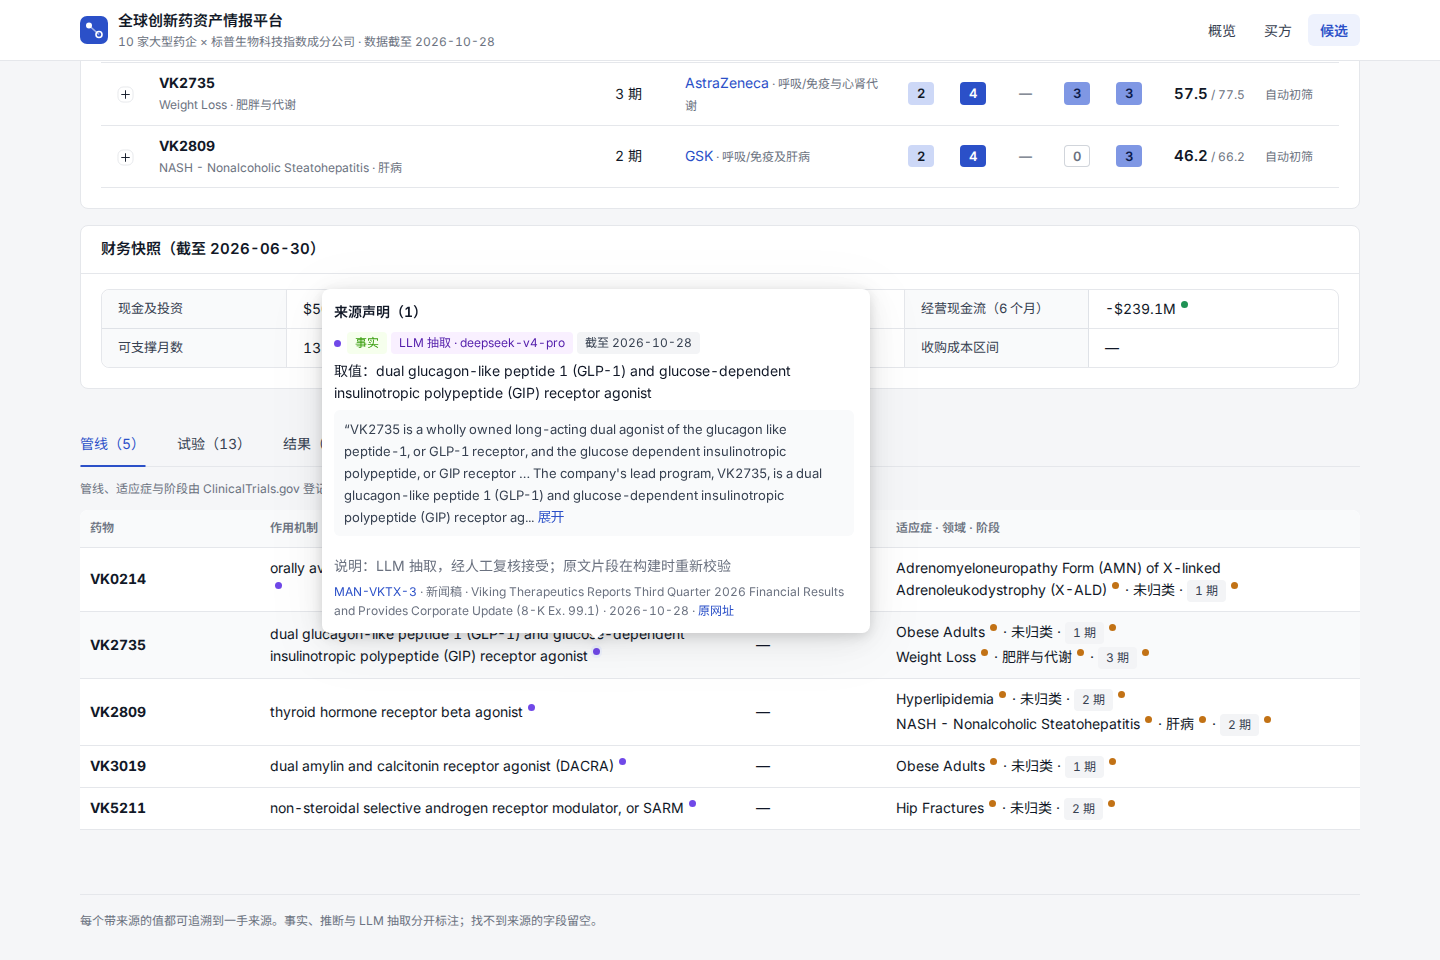
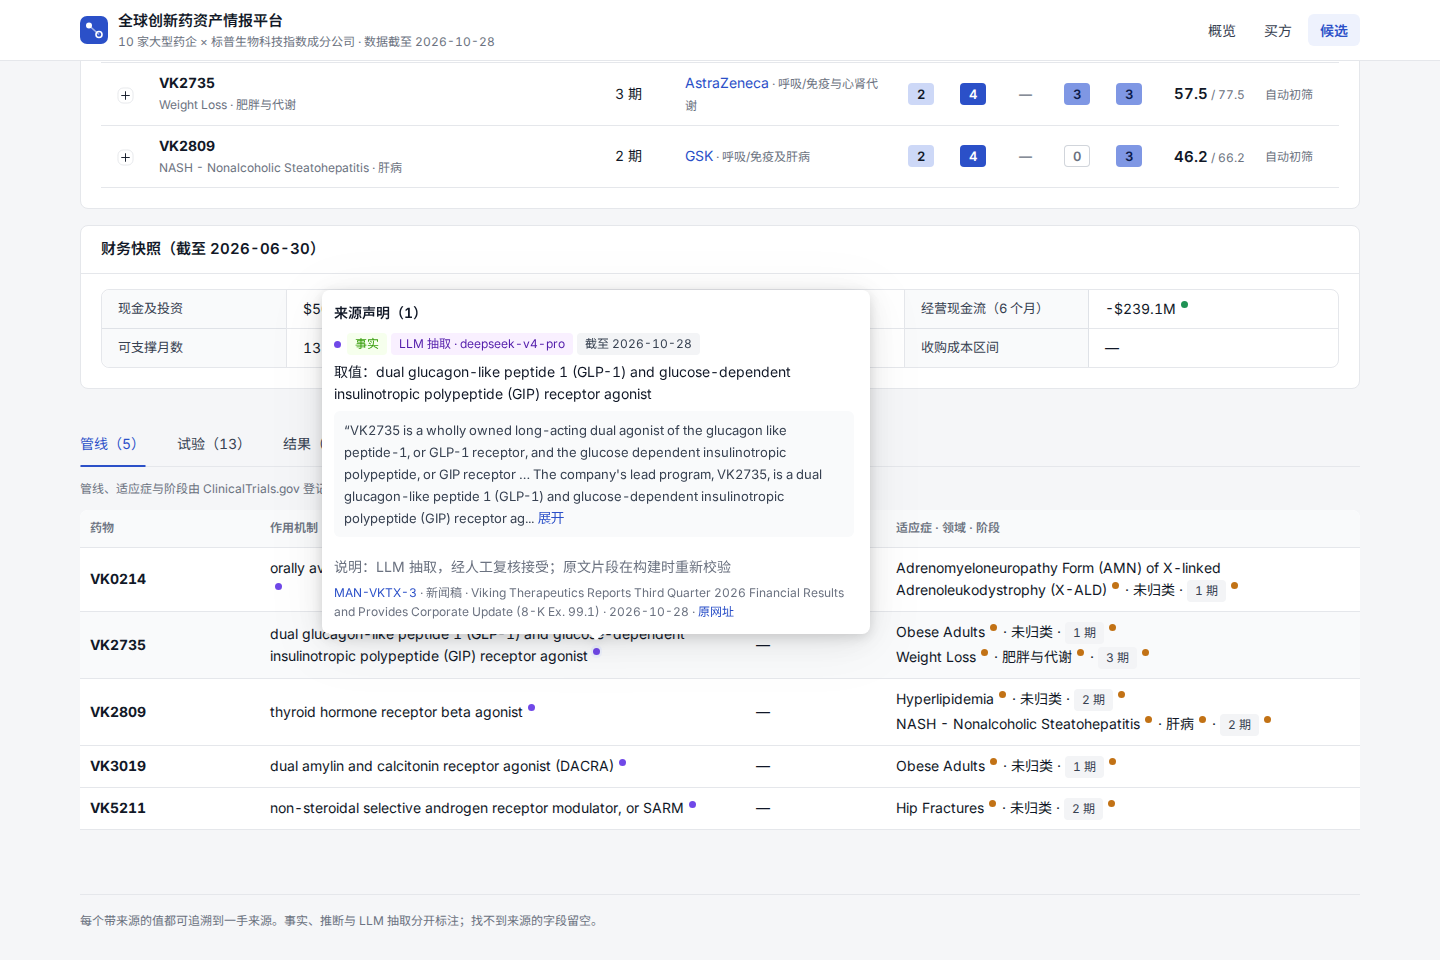
web: show 推荐逻辑 as labelled parts following the scoring-rules template
Claude-Session: https://claude.ai/code/session_01HkPvGRTAerm7dKeWUgGh96

Changed region(s): [[0.2188, 0.3125, 0.5938, 0.6562], [0.8125, 0.1562, 0.875, 0.1875]]

diff --git a/web/src/components/Thesis.tsx b/web/src/components/Thesis.tsx
@@ -1,0 +1,87 @@
+import { Button } from 'antd'
+import { type ReactNode, useState } from 'react'
+import type { Sources } from '../api/client'
+import { parseThesis, splitCategory } from '../lib/thesis'
+import { RichText } from './RichText'
+import { Sourced } from './Sourced'
+
+// Bold the lead phrase (before `sep`) of an exact substring, keeping the rest as typeset text.
+function Lead({ text, sep }: { text: string; sep: string }) {
+  const at = text.indexOf(sep)
+  if (at <= 0) return <RichText text={text} />
+  return (
+    <div className="rich">
+      <p>
+        <b>{text.slice(0, at)}</b>
+        {text.slice(at)}
+      </p>
+    </div>
+  )
+}
+
+function Row({ tag, tone, children }: { tag: string; tone: string; children: ReactNode }) {
+  return (
+    <div className="brief-row">
+      <span className={`brief-tag tone-${tone}`}>{tag}</span>
+      <div style={{ minWidth: 0 }}>{children}</div>
+    </div>
+  )
+}
+
+// 推荐逻辑 split into its template parts (need → asset → reason; evidence, next event, obstacle).
+// Text that does not follow the template is shown whole.
+export function Thesis({ text, sources }: { text: string; sources: Sources }) {
+  const [whole, setWhole] = useState(false)
+  const parts = parseThesis(text)
+  const head = (
+    <div className="brief-head">
+      <Sourced sources={sources} field="thesis">
+        <b style={{ fontSize: 15 }}>推荐逻辑</b>
+      </Sourced>
+      <span className="sub">买方需求与资产的对应；证据、下一事件与主要障碍</span>
+      {parts && (
+        <Button type="link" size="small" onClick={() => setWhole(!whole)} style={{ marginLeft: 'auto', paddingInline: 0 }}>
+          {whole ? '分项显示' : '显示原文整段'}
+        </Button>
+      )}
+    </div>
+  )
+  if (!parts || whole)
+    return (
+      <div className="brief">
+        {head}
+        <p className="thesis">{text}</p>
+      </div>
+    )
+  const [category, obstacle] = parts.obstacle ? splitCategory(parts.obstacle) : [null, '']
+  return (
+    <div className="brief">
+      {head}
+      <div className="brief-group">
+        <div className="brief-title">为什么匹配</div>
+        <Row tag="买方需求" tone="buyer"><Lead text={parts.need} sep="需要" /></Row>
+        <Row tag="对应资产" tone="asset"><Lead text={parts.asset} sep="（" /></Row>
+        <Row tag="匹配理由" tone="reason"><RichText text={parts.reason} /></Row>
+      </div>
+      <div className="brief-group">
+        <div className="brief-title">证据与风险</div>
+        <Row tag="关键证据" tone="evidence"><RichText text={parts.evidence} /></Row>
+        {parts.next && <Row tag="下一事件" tone="next"><RichText text={parts.next} /></Row>}
+        {parts.obstacle && (
+          <Row tag="主要障碍" tone="risk">
+            {category ? (
+              <div className="rich">
+                <p>
+                  <span className="risk-cat">{category}</span>
+                  {obstacle}
+                </p>
+              </div>
+            ) : (
+              <RichText text={parts.obstacle} />
+            )}
+          </Row>
+        )}
+      </div>
+    </div>
+  )
+}

diff --git a/web/src/lib/thesis.ts b/web/src/lib/thesis.ts
@@ -1,0 +1,65 @@
+// Splits a 推荐逻辑 written to the template in docs/scoring-rules.md §7 into its labelled parts:
+//   〈买方〉需要〈需求〉；〈公司〉的〈资产〉…对应这一需求，因为〈理由〉。
+//   证据是〈…〉；下一事件是〈…〉；主要障碍是〈…〉。
+// Every part is an exact substring of the original; when the text does not follow the template the
+// caller shows it unsplit, so nothing is ever dropped or reworded.
+
+export interface ThesisParts {
+  need: string
+  asset: string
+  reason: string
+  evidence: string
+  next: string | null
+  obstacle: string | null
+}
+
+const OPEN = '（(「“"'
+const CLOSE = '）)」”"'
+
+// Index of the first `ch` outside brackets and quotes at or after `from`, or -1.
+function topLevel(text: string, ch: string, from = 0): number {
+  let depth = 0
+  let inAscii = false
+  for (let i = from; i < text.length; i++) {
+    const c = text[i]
+    if (c === '"') inAscii = !inAscii
+    else if (!inAscii && OPEN.includes(c)) depth++
+    else if (!inAscii && CLOSE.includes(c)) depth = Math.max(0, depth - 1)
+    else if (depth === 0 && !inAscii && text.startsWith(ch, i)) return i
+  }
+  return -1
+}
+
+export function parseThesis(text: string): ThesisParts | null {
+  const at = text.indexOf('对应这一需求')
+  if (at < 0) return null
+  const head = text.slice(0, at)
+  const semi = topLevel(head, '；')
+  if (semi < 0) return null
+  // Usually 「对应这一需求，因为…」; a qualified match such as 「对应这一需求中的「泌尿」肿瘤，因为…」 keeps its qualifier.
+  const because = topLevel(text, '因为', at)
+  if (because < 0) return null
+  const plain = text.slice(at, because) === '对应这一需求，'
+  const reasonFrom = plain ? because + 2 : at
+  const end = topLevel(text, '。', because)
+  if (end < 0) return null
+  const rest = text.slice(end + 1)
+  const nextAt = topLevel(rest, '；下一事件是')
+  const obstacleAt = topLevel(rest, '；主要障碍是')
+  const evidenceEnd = nextAt >= 0 ? nextAt : obstacleAt >= 0 ? obstacleAt : rest.length
+  const parts: ThesisParts = {
+    need: head.slice(0, semi),
+    asset: head.slice(semi + 1),
+    reason: text.slice(reasonFrom, end + 1),
+    evidence: rest.slice(0, evidenceEnd).replace(/^证据是/, ''),
+    next: nextAt >= 0 ? rest.slice(nextAt + '；下一事件是'.length, obstacleAt > nextAt ? obstacleAt : undefined) : null,
+    obstacle: obstacleAt >= 0 ? rest.slice(obstacleAt + '；主要障碍是'.length) : null,
+  }
+  return parts.evidence.trim() ? parts : null
+}
+
+// 「成本：…」 → ['成本', '…'] so the obstacle's category can be shown as a tag.
+export function splitCategory(text: string): [string | null, string] {
+  const m = /^([^：:，。；]{1,8})[：:]/.exec(text)
+  return m ? [m[1], text.slice(m[0].length)] : [null, text]
+}

diff --git a/web/src/index.css b/web/src/index.css
@@ -676,3 +676,77 @@ h3 {
     grid-template-columns: minmax(0, 1fr);
   }
 }
+
+/* 推荐逻辑 as a brief: two groups of labelled rows. */
+.brief {
+  display: grid;
+  gap: 14px;
+  min-width: 0;
+}
+
+.brief-head {
+  display: flex;
+  align-items: baseline;
+  flex-wrap: wrap;
+  gap: 4px 10px;
+}
+
+.brief-group {
+  display: grid;
+  gap: 2px;
+}
+
+.brief-title {
+  font-size: 12px;
+  font-weight: 600;
+  color: var(--muted);
+  letter-spacing: 0.04em;
+  padding-bottom: 4px;
+}
+
+.brief-row {
+  display: grid;
+  grid-template-columns: 76px minmax(0, 1fr);
+  gap: 12px;
+  align-items: start;
+  padding-block: 9px;
+  border-top: 1px solid var(--line);
+}
+
+.brief-row .rich {
+  font-size: 14.5px;
+}
+
+.brief-tag {
+  font-size: 12px;
+  font-weight: 600;
+  text-align: center;
+  border-radius: 4px;
+  padding: 2px 0;
+  margin-top: 2px;
+}
+
+.tone-buyer { background: var(--accent-soft); color: var(--accent); }
+.tone-asset { background: var(--accent-soft); color: var(--accent); }
+.tone-reason { background: #f1f3f6; color: var(--ink-2); }
+.tone-evidence { background: #e8f5ee; color: #1d6b43; }
+.tone-next { background: #f0ecfd; color: #5a3cc4; }
+.tone-risk { background: #fdf1e4; color: #9a5510; }
+
+.risk-cat {
+  display: inline-block;
+  font-weight: 650;
+  color: #9a5510;
+  margin-right: 6px;
+}
+
+@media (max-width: 640px) {
+  .brief-row {
+    grid-template-columns: minmax(0, 1fr);
+    gap: 6px;
+  }
+  .brief-tag {
+    justify-self: start;
+    padding-inline: 8px;
+  }
+}

diff --git a/web/src/pages/TargetDetail.tsx b/web/src/pages/TargetDetail.tsx
@@ -5,6 +5,7 @@ import { useApi } from '../api/useApi'
 import { Loaded } from '../components/Loaded'
 import { AssetName, PageHead, Score } from '../components/Page'
 import { Legend, Sourced, SourcedText } from '../components/Sourced'
+import { Thesis } from '../components/Thesis'
 import { CATALYST_TYPE, DATE_TYPE, DIMENSIONS, label, money, RESEARCH_STATUS, RIGHTS, shortAsset, STAGE, taLabel } from '../labels'
 
 const REVIEW_FIELDS: [keyof Recommendation, string][] = [
@@ -113,15 +114,7 @@ function RecommendationView({ r }: { r: Recommendation }) {
     <>
       <div className="review-top">
         {r.thesis ? (
-          <div style={{ display: 'grid', gap: 8 }}>
-            <div>
-              <b style={{ fontSize: 15 }}>推荐逻辑</b>
-              <span className="sub" style={{ marginLeft: 10 }}>两句话：买方需求与资产的对应；证据、下一事件与主要障碍</span>
-            </div>
-            <p className="thesis">
-              <Sourced sources={r.sources} field="thesis">{r.thesis}</Sourced>
-            </p>
-          </div>
+          <Thesis text={r.thesis} sources={r.sources} />
         ) : (
           <div style={{ display: 'grid', gap: 8 }}>
             <div>

diff --git a/docs/ai-log.md b/docs/ai-log.md
@@ -47,3 +47,4 @@
 | 2026-11-01 | G 用语调整 | Claude Code (Opus 5.5) | 按用户评审改两处页面用语：「两句话论点」改为「推荐逻辑」（加一行说明两句话的内容）；「主组合 / 其他组合」改为「主推荐方向 / 其他可能方向」，标题写明「资产 × 适应症 × 买方」，并注明公司分数只按主推荐方向计算。`docs/scoring-rules.md`、`docs/plan.md` 与 `web-app` 变更文档同步改名。检查：构建与演示走查通过。未改：快照内的声明说明与缺口原因文字、已归档的主规格，仍用旧称。 |
 | 2026-11-01 | G 未复核方向的展示 | Claude Code (Opus 5.5) | 按用户评审：没有推荐逻辑的推荐方向，左栏改为显示各维度的「评分依据」（取自评分声明的说明，原文不改）；「其他可能方向」由折叠面板改为一张紧凑表格（资产 × 适应症、阶段、买方、五维分数、保守 / 乐观分），点开一行看评分依据与复核字段。检查：RGNX（已复核，含 5 个其他方向）与 MNKD（自动初筛）页面截图，演示走查通过。 |
 | 2026-11-01 | G 长资产名缩写 | Claude Code (Opus 5.5) | 由 CT.gov 干预名推导的资产名常带一串别名括号。页面标题、候选列表、其他方向表、管线表、对比页与试验页只显示第一个括号前的部分（名称超过 24 个字符时），悬停显示全名；要点卡仍显示全名；数据不变。检查：MNKD 标题显示为「TECHNOSPHERE INSULIN × Type 2 Diabetes × Pfizer」，演示走查通过。 |
+| 2026-11-01 | G 推荐逻辑分项显示 | Claude Code (Opus 5.5) | 按 `docs/scoring-rules.md` 第 7 节的模板，把推荐逻辑拆成「为什么匹配」（买方需求、对应资产、匹配理由）与「证据与风险」（关键证据、下一事件、主要障碍）两组带标签的行；只按模板连接词切分，不改文字，保留「显示原文整段」开关；不符合模板时整段显示。检查：快照中 45 条推荐逻辑全部可拆分，拆分后按原顺序拼回与原文逐字一致（含 CGON 的「对应这一需求中的「泌尿」肿瘤」变体）；RGNX、CGON 在 1440 与 390 宽度截图，演示走查通过。 |
